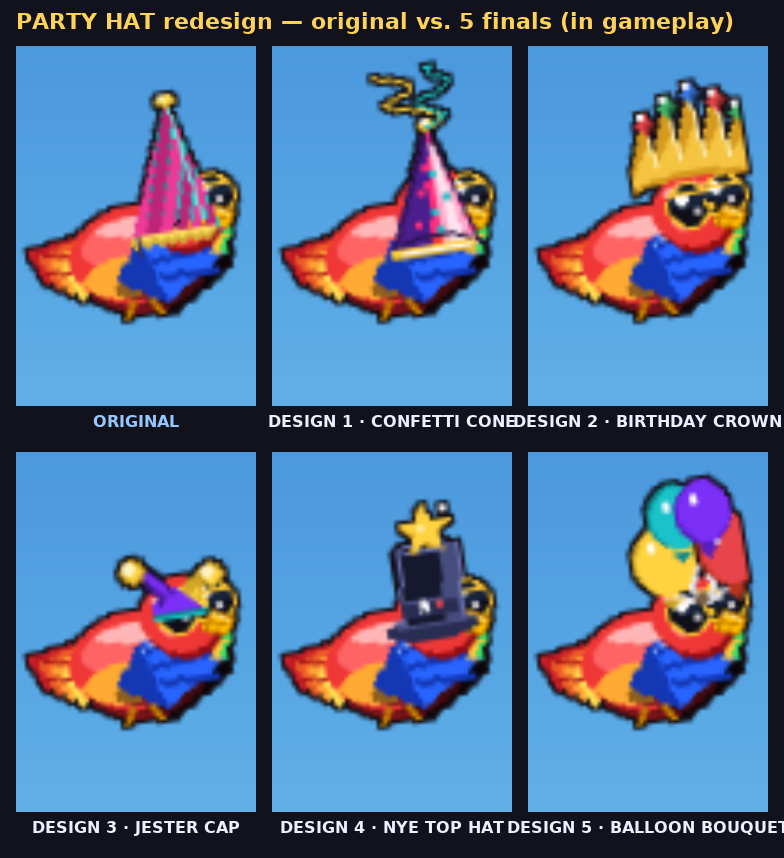
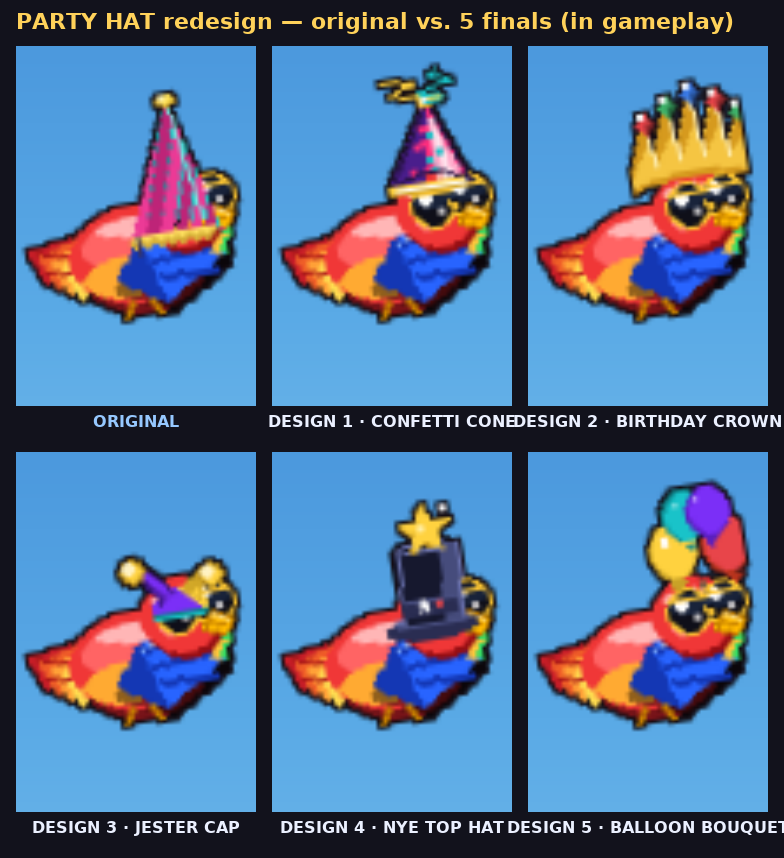
party hat designs 1 & 5: fix on-head placement
Design 1 (Confetti Cone): cone was ~50% too tall to fit head-on-crown in
the 64x100 composite, forcing the collar down onto the cheek to keep the
streamers on-canvas. Shorten the cone (1.30->0.92 head_w) and streamers
(~45%), reseat at the crown.

Design 5 (Balloon Bouquet): the curling strings + ornate ribbon knot piled
white string/nib/loop pixels into a tangle over Pip's face at the in-game
size. Gate that flourish to icon scale; on-bird the bouquet is a clean
balloon cluster with a tiny anchor knot at the crown. Gather at base_y and
reseat so the knot lands on the crown, not the cheek.

Claude-Session: https://claude.ai/code/session_01Un3kcdyKmE8Tyz3KVvqDuq

Changed region(s): [[0.4592, 0.0606, 0.6122, 0.303], [0.7959, 0.5455, 0.9796, 0.7273]]

diff --git a/tools/partyhat_candidates/design_5.py b/tools/partyhat_candidates/design_5.py
@@ -65,12 +65,17 @@ def draw_hat(surf, cx, base_y, head_w, facing=1):
     r = head_w * 0.5
     f = 1 if facing >= 0 else -1
     detail = head_w >= 22
+    # Curling strings + ornate ribbon knot are the product-shot flourish. At the
+    # in-game head size they pile white string/nib/loop pixels into a tangle over
+    # Pip's face, so they're gated to icon scale; on-bird the bouquet reads as a
+    # clean cluster of balloons with just a tiny anchor knot at the crown.
+    full = head_w >= 44
 
     # Gather knot sits right on the crown so the whole cluster lifts above the
     # head instead of hugging it; the lowest balloon's bottom edge then lands
     # at/just above base_y rather than crossing down into the face.
     gather_x = cx + f * r * 0.06
-    gather_y = base_y + r * 0.05
+    gather_y = base_y
 
     # Balloon radius dropped so a taller four-stack clears the 64x100 icon top
     # and so sky opens between adjacent lobes (four countable balloons, not one
@@ -91,13 +96,15 @@ def draw_hat(surf, cx, base_y, head_w, facing=1):
     ]
 
     # Curling strings first so balloons overlap their tops cleanly. Each string
-    # runs from the gather knot up to a balloon's nib with a gentle S-curl.
-    string_w = max(1, int(r * 0.07))
-    for dx, dy, scale, _ in layout:
-        bx = gather_x + dx * br
-        by = gather_y + dy * br
-        _curl_string(surf, gather_x, gather_y, bx, by + br * scale,
-                     br, string_w, detail)
+    # runs from the gather knot up to a balloon's nib with a gentle S-curl. Only
+    # at icon scale — on-bird they crowd the face.
+    if full:
+        string_w = max(1, int(r * 0.07))
+        for dx, dy, scale, _ in layout:
+            bx = gather_x + dx * br
+            by = gather_y + dy * br
+            _curl_string(surf, gather_x, gather_y, bx, by + br * scale,
+                         br, string_w, detail)
 
     # Balloons painted back-to-front: lower pair first so the upper crown
     # overlaps them, reinforcing the rounded bouquet stack.
@@ -111,7 +118,8 @@ def draw_hat(surf, cx, base_y, head_w, facing=1):
 
     # The gather knot: a small ribbon bow / tie where all strings meet, drawn
     # right at base_y (the crown line) so it anchors the bouquet to the head.
-    _knot(surf, gather_x, base_y, r, detail)
+    # Ornate ribbon loops only at icon scale.
+    _knot(surf, gather_x, base_y, r, full)
 
 
 def _curl_string(surf, x0, y0, x1, y1, br, w, detail):
@@ -148,5 +156,5 @@ def _knot(surf, cx, cy, r, detail):
                                  loop, int(loop * 0.7)))
 
 
-build = make_build(draw_hat, seat={"hw": 40, "dx": 2, "dy": 3})
+build = make_build(draw_hat, seat={"hw": 32, "dx": 4, "dy": -1})
 icon = make_icon(draw_hat)

diff --git a/tools/partyhat_candidates/design_1.py b/tools/partyhat_candidates/design_1.py
@@ -38,10 +38,12 @@ def draw_hat(surf, cx, base_y, head_w, facing=1):
     r = head_w * 0.5
     f = 1 if facing >= 0 else -1
 
-    # Cone leans a hair forward so it reads as worn. Height is held to ~1.3x
-    # head_w so the tall cone clears the 64x100 composite top from the crown.
+    # Cone leans a hair forward so it reads as worn. Height held compact (~0.92x
+    # head_w) so the full cone+streamers fit the ~31px of headroom above the
+    # crown in the 64x100 composite — a taller cone forces the collar off the
+    # crown and down onto the cheek to keep the streamers on-canvas.
     tip_x = cx + f * r * 0.20
-    tip_y = base_y - head_w * 1.30
+    tip_y = base_y - head_w * 0.92
     base_hw = r * 0.94
     base_cy = base_y - r * 0.20
 
@@ -210,8 +212,8 @@ def _draw_streamers(surf, tip_x, tip_y, r, f, head_w):
     # Two wider, lower-frequency ribbons so the curls read as ribbon, not as
     # aliased static at the tip.
     configs = (
-        (_RIBBON[0], -0.55 * f, 1.20, 0.55, 3.2),
-        (_RIBBON[1],  0.35 * f, 1.35, 0.42, 3.8),
+        (_RIBBON[0], -0.55 * f, 0.65, 0.55, 3.2),
+        (_RIBBON[1],  0.35 * f, 0.75, 0.42, 3.8),
     )
     for col, fan, reach, amp, freq in configs:
         pts = []
@@ -230,5 +232,5 @@ def _draw_streamers(surf, tip_x, tip_y, r, f, head_w):
                 pygame.draw.lines(surf, hi, False, pts[: n // 2], 1)
 
 
-build = make_build(draw_hat, seat={"hw": 26, "dx": -2, "dy": 17})
+build = make_build(draw_hat, seat={"hw": 24, "dx": -1, "dy": -1})
 icon = make_icon(draw_hat)
